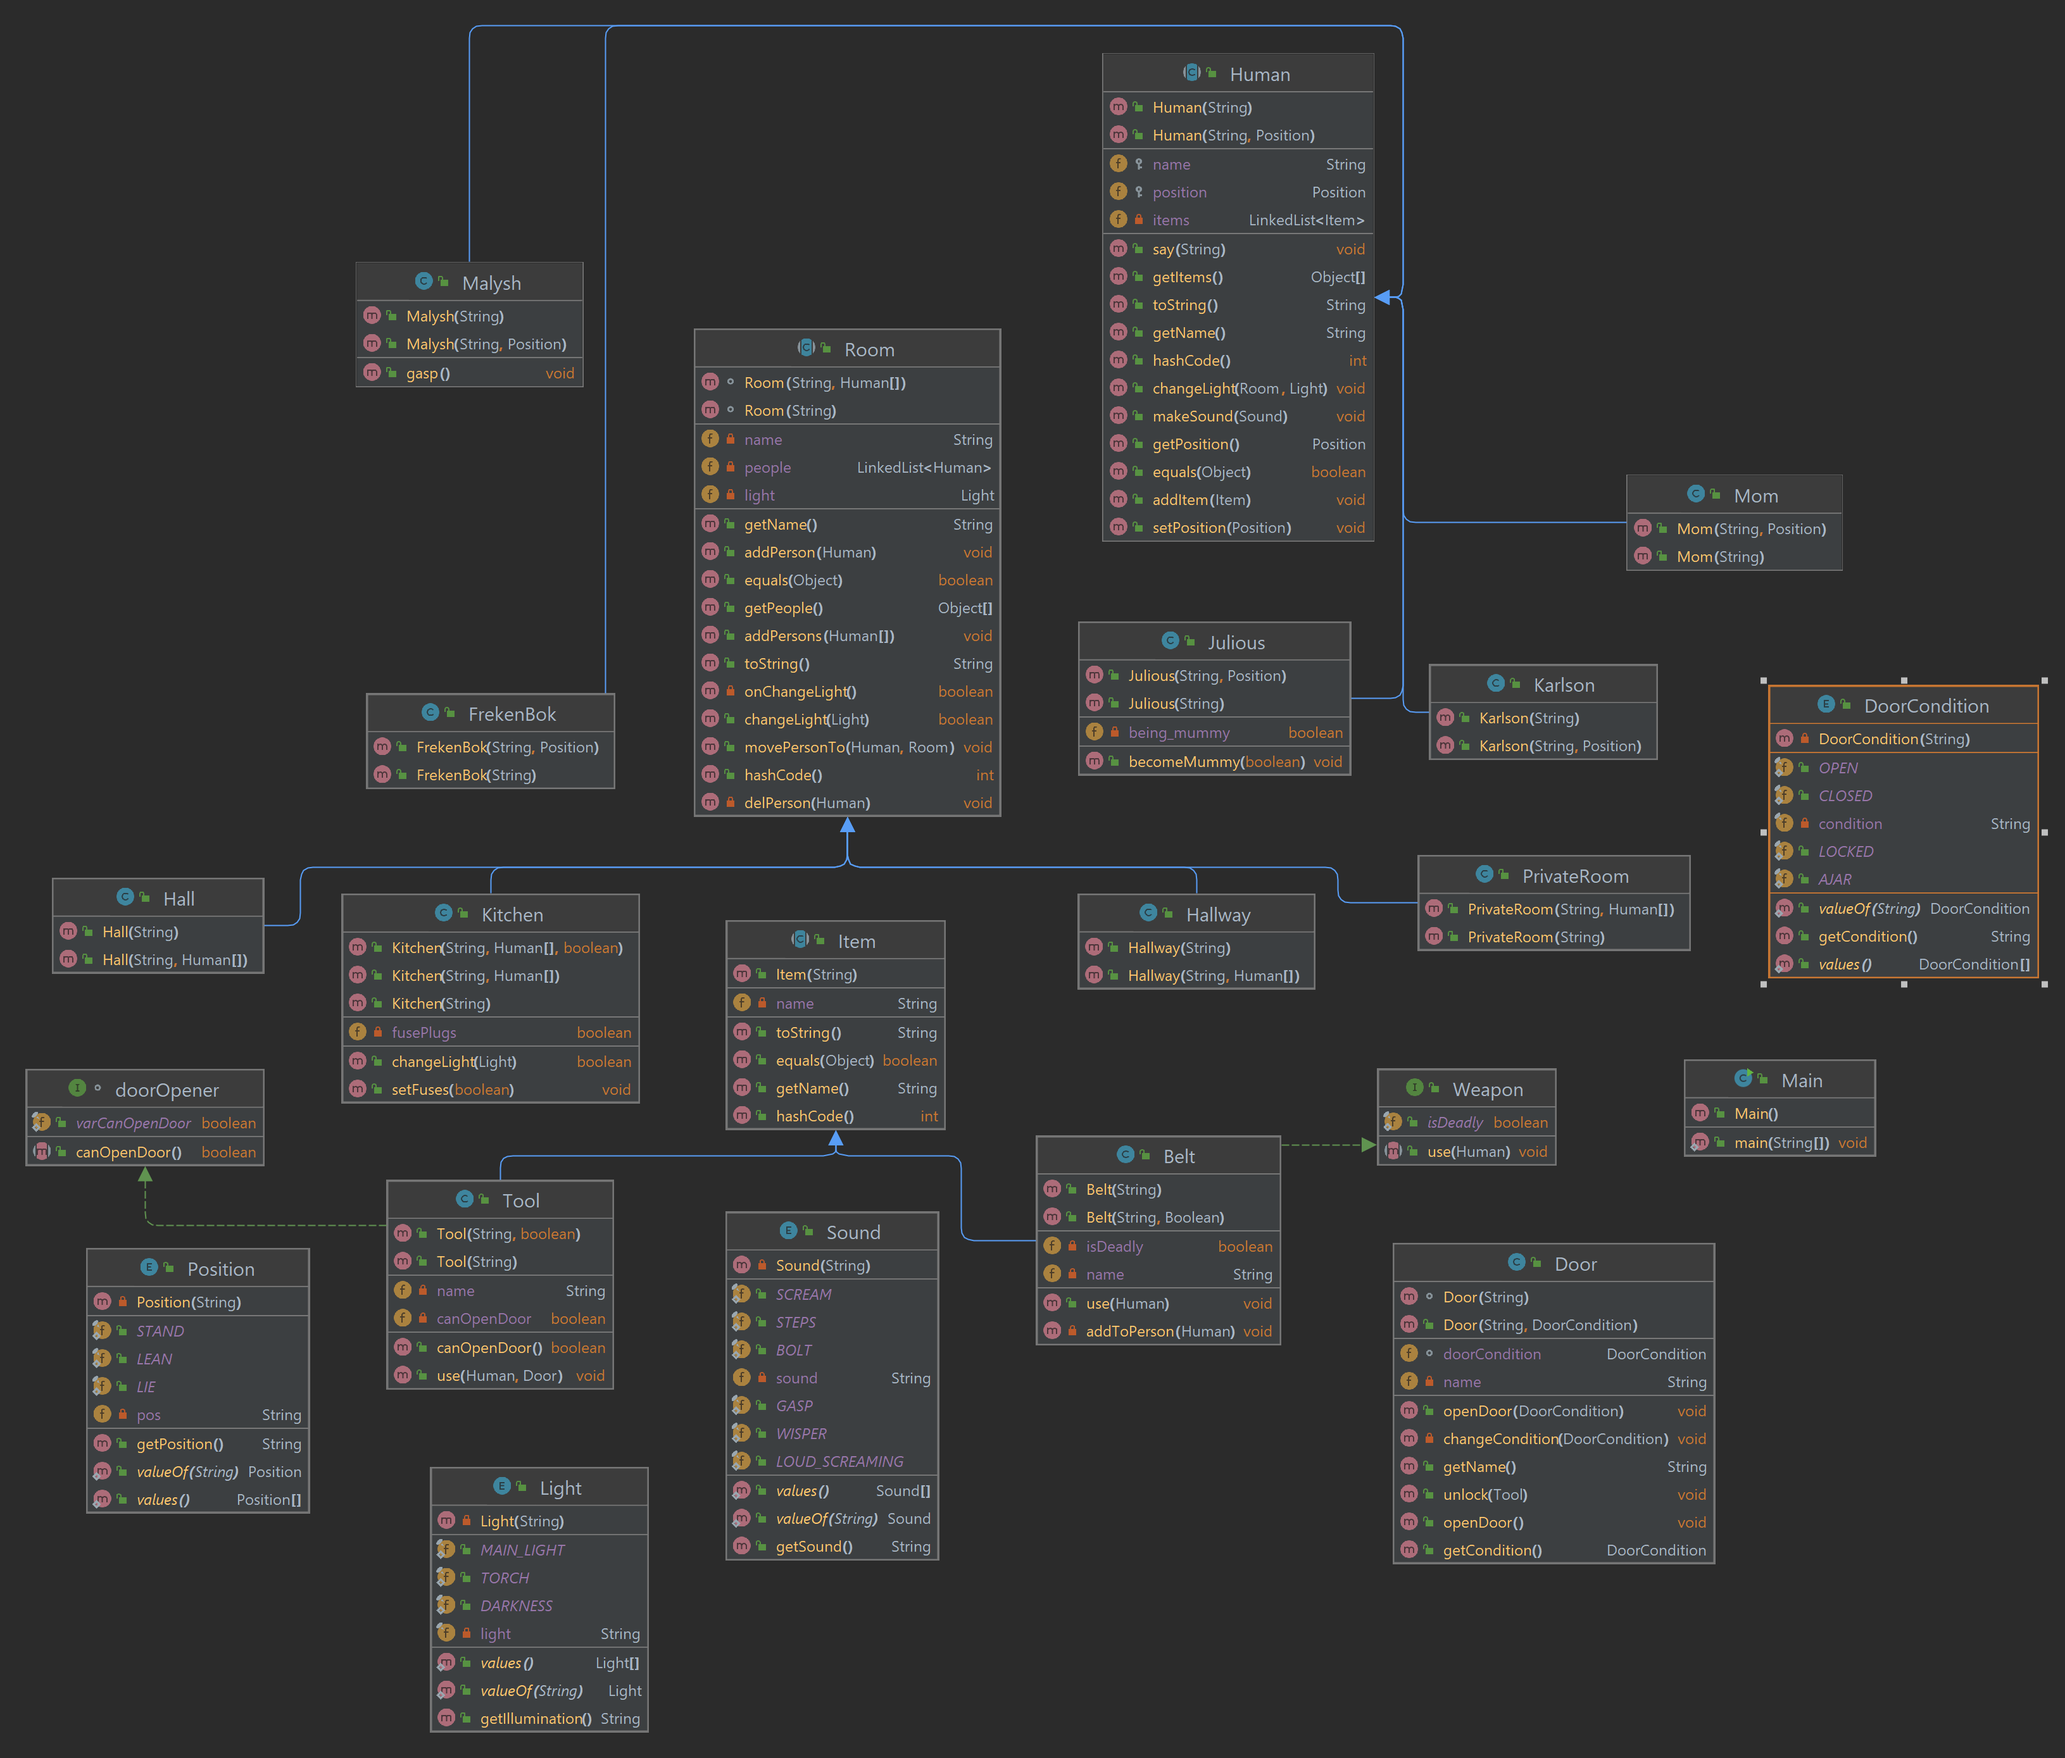
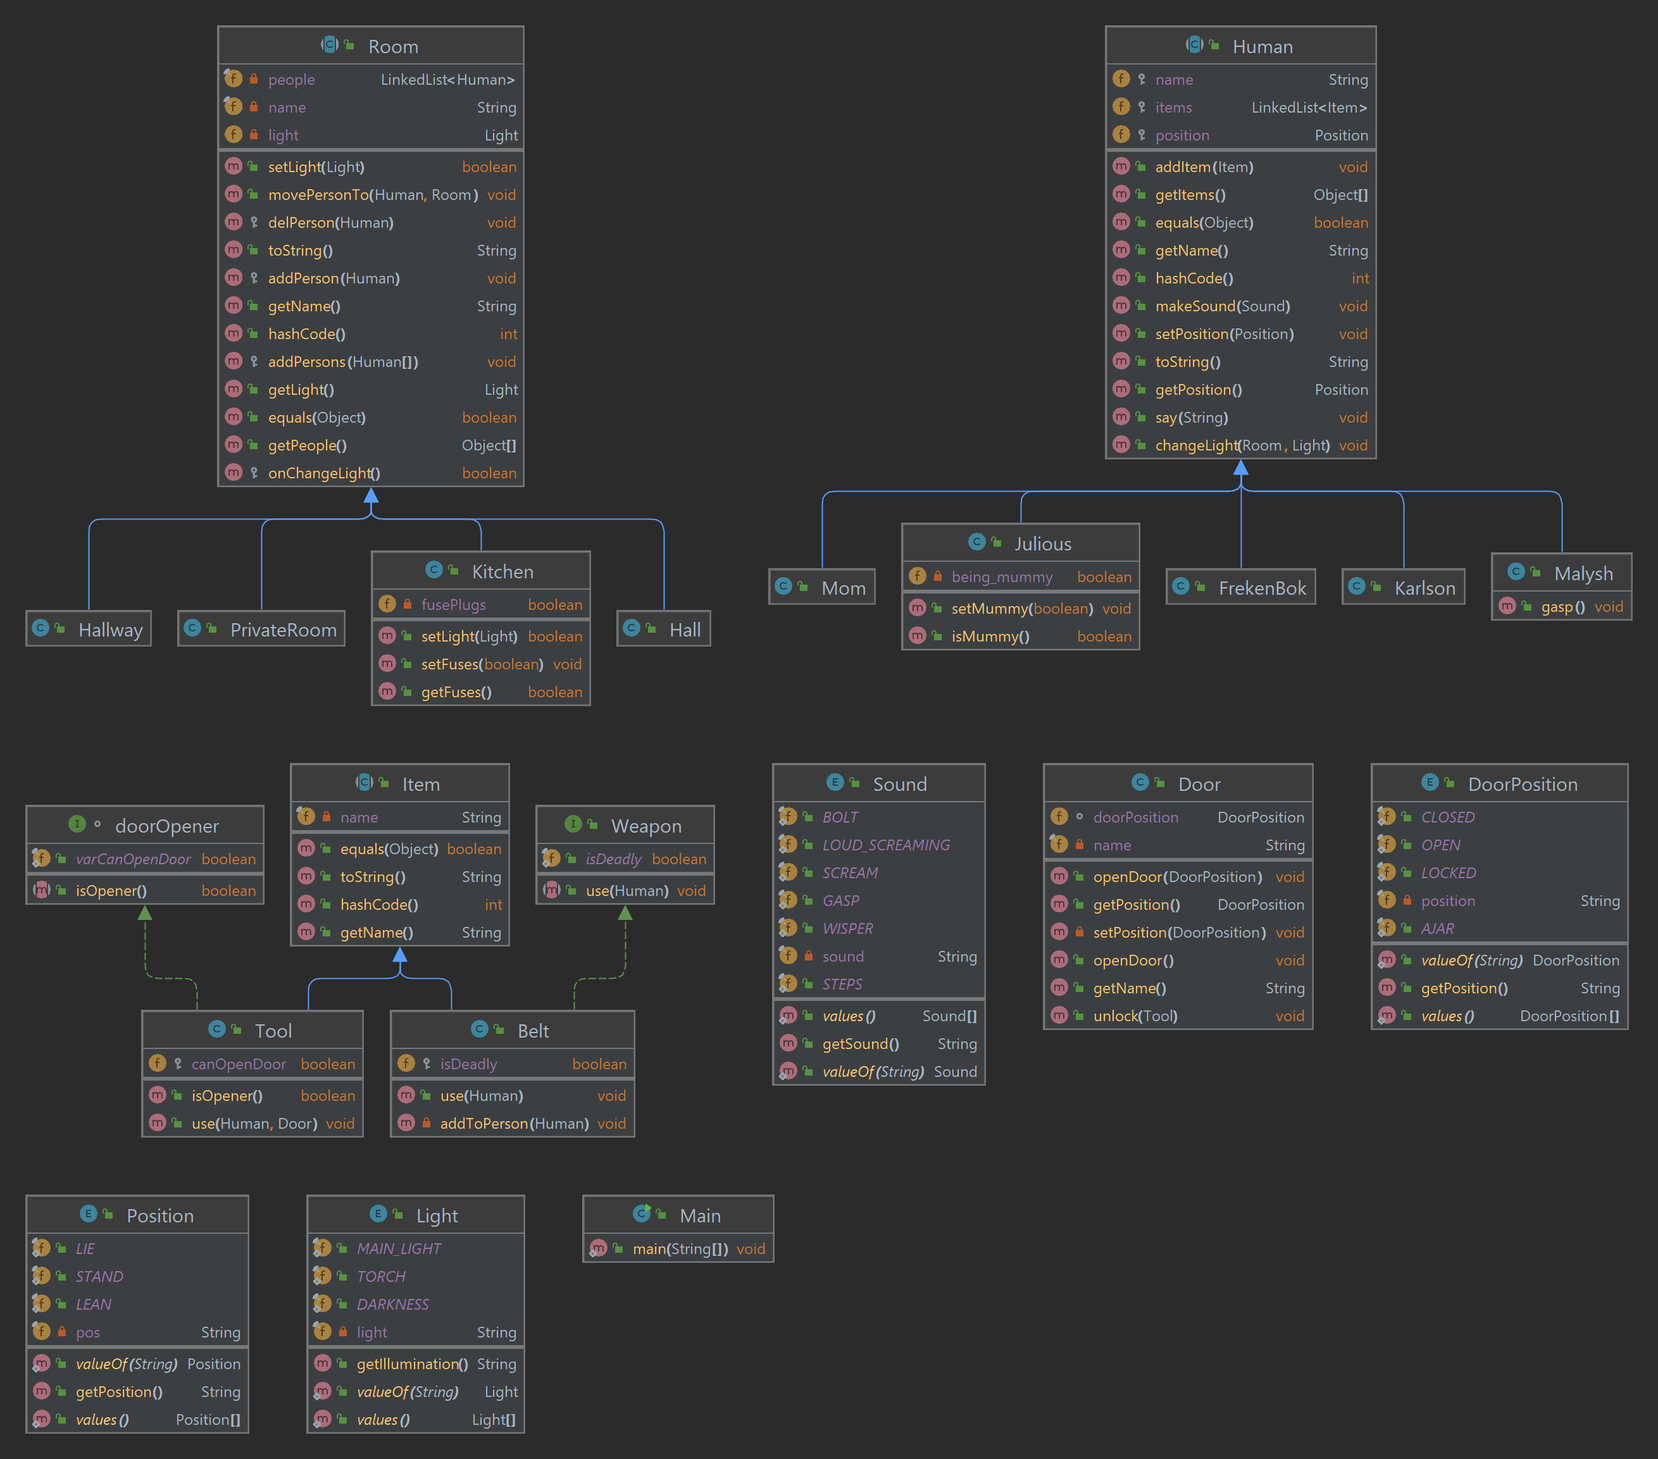
Исправлены equals, добавлен отчет, доработано до SOLID

Changed region(s): [[0.0, 0.0, 0.9893, 0.9991], [0.5256, 0.0, 0.8966, 0.3435], [0.1237, 0.4996, 0.1546, 0.5308]]

diff --git a/src/Main.java b/src/Main.java
@@ -6,41 +6,46 @@ public class Main {
     public static void main(String[] args) {
         Tool wire = new Tool("Проволочка", false);
         Belt belt = new Belt("Ремень");
+        Belt belt2 = new Belt("Ремень");
 
         Malysh malysh = new Malysh("Малыш");
+        Malysh malysh2 = new Malysh("Малыш");
         Karlson karlson = new Karlson("Карлсон");
         Julious julious = new Julious("дядя Юлиус");
-        julious.becomeMummy(true);
+        julious.setMummy(true);
         FrekenBok frekenBok = new FrekenBok("фрекен Бок");
         Mom mom = new Mom("Мамочка");
 
         Hall hall = new Hall("Зал", new Human[]{malysh, karlson, frekenBok, mom});
-        Hallway hallway = new Hallway("Коридор");
+        Hallway hallway = new Hallway("Коридор", new Human[]{julious});
         Kitchen kitchen = new Kitchen("Кухня");
         kitchen.setFuses(false);
         PrivateRoom frekenBokRoom = new PrivateRoom("Комната фрекен бок");
         PrivateRoom juliousRoom = new PrivateRoom("Комната Юлиуса");
 
-        Door doorFrekenBokRoomHallway = new Door("Дверь комнаты Фрекен Бок", DoorCondition.CLOSED);
-        Door doorJuliousRoomHallway = new Door("Дверь комнаты Юлиуса", DoorCondition.CLOSED);
-        Door doorHallHallway = new Door("Дверь в коридор", DoorCondition.LOCKED);
+
+        Door doorFrekenBokRoomHallway = new Door("Дверь комнаты Фрекен Бок", DoorPosition.CLOSED);
+        Door doorJuliousRoomHallway = new Door("Дверь комнаты Юлиуса", DoorPosition.CLOSED);
+        Door doorHallHallway = new Door("Дверь в коридор", DoorPosition.LOCKED);
 
 
         wire.use(karlson, doorHallHallway);
-        doorHallHallway.openDoor(DoorCondition.AJAR);
-        hall.addPerson(julious);
+        doorHallHallway.openDoor(DoorPosition.AJAR);
+        hallway.movePersonTo(julious, hall);
         malysh.gasp();
         julious.makeSound(Sound.WISPER);
         julious.makeSound(Sound.STEPS);
         julious.makeSound(Sound.BOLT);
         mom.makeSound(Sound.SCREAM);
         frekenBok.makeSound(Sound.SCREAM);
-        hall.changeLight(Light.TORCH);
-        hall.changeLight(Light.DARKNESS);
+        julious.setPosition(Position.LEAN);
+        hall.setLight(Light.TORCH);
+        hall.setLight(Light.DARKNESS);
         mom.makeSound(Sound.LOUD_SCREAMING);
-        doorHallHallway.openDoor(DoorCondition.OPEN);
+        doorHallHallway.openDoor(DoorPosition.OPEN);
 
         // Малыш ничего не понимает
+        julious.setMummy(false);
         hall.movePersonTo(julious, juliousRoom);
         hall.movePersonTo(frekenBok, frekenBokRoom);
         System.out.println("Проходит некоторое количество времени");

diff --git a/src/places/Room.java b/src/places/Room.java
@@ -7,8 +7,8 @@ import java.util.LinkedList;
 import java.util.List;
 
 public abstract class Room{
-    private LinkedList<Human> people = new LinkedList<Human>();
-    private String name;
+    private final LinkedList<Human> people = new LinkedList<Human>();
+    private final String name;
     private Light light = Light.DARKNESS;
     Room(String n) {
         name = n;
@@ -20,17 +20,20 @@ public abstract class Room{
     public String getName(){
         return name;
     }
-    public void addPerson(Human human){
+    protected void addPerson(Human human){
         people.add(human);
         System.out.println(human.getName() + " заходит в " + getName());
     }
-    public void addPersons(Human[] crowd){
+    protected void addPersons(Human[] crowd){
         people.addAll(List.of(crowd));
     }
-    public boolean changeLight(Light illumination){
+    public boolean setLight(Light illumination){
         System.out.println("В " + getName() + " включается " + illumination.name());
         this.light = illumination;
         return onChangeLight();
+    }
+    public Light getLight(){
+        return this.light;
     }
     public Object[] getPeople(){
         return people.toArray();
@@ -39,10 +42,10 @@ public abstract class Room{
         this.delPerson(human);
         destination.addPerson(human);
     }
-    private void delPerson(Human human){
+    protected void delPerson(Human human){
         people.remove(human);
     }
-    private boolean onChangeLight(){
+    protected boolean onChangeLight(){
         if (light == Light.TORCH){
             System.out.println("Дядя Юлиус скалит зубы");
             return true;
@@ -58,7 +61,10 @@ public abstract class Room{
             return false;
         }
         Room room = (Room) o;
-        if(!Arrays.equals(room.getPeople(), ((Room) o).getPeople())){
+        if(!Arrays.equals(this.getPeople(), room.getPeople())){
+            return false;
+        }
+        if(!this.getLight().equals(room.getLight())){
             return false;
         }
         return room.getName().equals(this.getName());

diff --git a/src/characters/Human.java b/src/characters/Human.java
@@ -10,20 +10,19 @@ import java.util.LinkedList;
 public abstract class Human {
     protected String name;
     protected Position position = Position.STAND;
-    private LinkedList<Item> items = new LinkedList<Item>();
-
-    public void addItem(Item thing){
-        items.add(thing);
-    }
-    public Object[] getItems(){
-        return items.toArray();
-    }
+    protected LinkedList<Item> items = new LinkedList<Item>();
     public Human(String name){
         this.name = name;
     }
     public Human(String name, Position position){
         this.name = name;
         this.position = position;
+    }
+    public void addItem(Item thing){
+        items.add(thing);
+    }
+    public Object[] getItems(){
+        return items.toArray();
     }
     public void makeSound(Sound sound){
         System.out.println(name + " " + sound.getSound());
@@ -39,10 +38,10 @@ public abstract class Human {
         return this.name;
     }
     public void say(String text){
-        System.out.println(this.getName() + " говорит: " + text + '"');
+        System.out.println(this.getName() + " говорит: \"" + text + '"');
     }
     public void changeLight(Room room, Light light){
-        if(room.changeLight(light)) {
+        if(room.setLight(light)) {
             System.out.println(getName() + " переключает свет в " + room.getName() + " на " + light.name());
         }
         else{
@@ -58,10 +57,10 @@ public abstract class Human {
             return false;
         }
         Human human = (Human) o;
-        if(getPosition().equals(human.getPosition())){
+        if(! this.getPosition().equals(human.getPosition())){
             return false;
         }
-        if(Arrays.equals(getItems(), ((Human) o).getItems())){
+        if(! Arrays.equals(getItems(), ((Human) o).getItems())){
             return false;
         }
         return getName().equals(human.getName());

diff --git a/src/places/Door.java b/src/places/Door.java
@@ -2,46 +2,43 @@ package places;
 
 import tools.Tool;
 
-import java.util.concurrent.locks.Condition;
-
 public class Door {
-    private String name;
-    DoorCondition doorCondition;
+    private final String name;
+    DoorPosition doorPosition = DoorPosition.CLOSED;
 
     Door(String n){
         name = n;
-        doorCondition = DoorCondition.CLOSED;
     }
-    public Door(String n, DoorCondition cond){
+    public Door(String n, DoorPosition cond){
         name = n;
-        doorCondition = cond;
+        doorPosition = cond;
     }
 
     public void unlock(Tool tool){
-        if (tool.canOpenDoor()) {
-            changeCondition(DoorCondition.CLOSED);
+        if (tool.isOpener()) {
+            setPosition(DoorPosition.CLOSED);
         }
     }
     public void openDoor(){
-        if (doorCondition != DoorCondition.LOCKED){
-            changeCondition(DoorCondition.OPEN);
-            System.out.println(getName() + " " + DoorCondition.OPEN.name());
+        if (doorPosition != DoorPosition.LOCKED){
+            setPosition(DoorPosition.OPEN);
+            System.out.println(getName() + " " + DoorPosition.OPEN.name());
         }
     }
     public String getName(){
         return name;
     }
-    public void openDoor(DoorCondition cond){
-        if (doorCondition != DoorCondition.LOCKED){
-            changeCondition(cond);
+    public void openDoor(DoorPosition cond){
+        if (doorPosition != DoorPosition.LOCKED){
+            setPosition(cond);
             System.out.println(this.getName() + cond.name());
         }
     }
-    private void changeCondition(DoorCondition cond){
-        doorCondition = cond;
+    private void setPosition(DoorPosition cond){
+        doorPosition = cond;
 
     }
-    public DoorCondition getCondition(){
-        return doorCondition;
+    public DoorPosition getPosition(){
+        return doorPosition;
     }
 }

diff --git a/src/tools/Tool.java b/src/tools/Tool.java
@@ -4,8 +4,7 @@ import characters.Human;
 import places.Door;
 
 public class Tool extends Item implements doorOpener{
-    private boolean canOpenDoor = false;
-    private String name;
+    protected boolean canOpenDoor = false;
     public Tool(String n){
         super(n);
     }
@@ -15,9 +14,9 @@ public class Tool extends Item implements doorOpener{
     }
     public void use(Human human, Door door){
         door.unlock(this);
-        System.out.println(this.getName() + " используется на " + door.getName());
+        System.out.println(this.getName() + " используется "+ human.getName() + " на " + door.getName());
     }
-    public boolean canOpenDoor(){
+    public boolean isOpener(){
         return canOpenDoor;
     }
 }

diff --git a/src/places/Kitchen.java b/src/places/Kitchen.java
@@ -17,10 +17,13 @@ public class Kitchen extends Room{
     public void setFuses(boolean state){
         fusePlugs = state;
     }
+    public boolean getFuses(){
+        return fusePlugs;
+    }
     @Override
-    public boolean changeLight(Light illumination){
+    public boolean setLight(Light illumination){
         if(fusePlugs){
-            super.changeLight(illumination);
+            super.setLight(illumination);
             return true;
 
         }

diff --git a/src/tools/Item.java b/src/tools/Item.java
@@ -1,7 +1,7 @@
 package tools;
 
 public abstract class Item {
-    private String name;
+    private final String name;
     public Item(String n){
         name = n;
     }
@@ -17,7 +17,7 @@ public abstract class Item {
             return false;
         }
         Item item = (Item) o;
-        return getName().equals(((Item) o).getName());
+        return getName().equals(item.getName());
     }
     @Override
     public String toString(){

diff --git a/src/characters/Julious.java b/src/characters/Julious.java
@@ -8,7 +8,10 @@ public class Julious extends Human{
     public Julious(String name, Position position){
         super(name, position);
     }
-    public void becomeMummy(boolean state){
+    public void setMummy(boolean state){
         being_mummy = state;
+    }
+    public boolean isMummy(){
+        return being_mummy;
     }
 }

diff --git a/src/places/DoorPosition.java b/src/places/DoorPosition.java
@@ -1,0 +1,15 @@
+package places;
+
+public enum DoorPosition {
+    LOCKED("LOCKED"),
+    OPEN("OPEN"),
+    CLOSED("CLOSED"),
+    AJAR("AJAR");
+    private final String position;
+    DoorPosition(String pos){
+        this.position = pos;
+    }
+    public String getPosition(){
+        return this.position;
+    }
+}

diff --git a/src/tools/Belt.java b/src/tools/Belt.java
@@ -4,8 +4,7 @@ import characters.Human;
 import characters.Position;
 
 public class Belt extends Item implements Weapon{
-    private boolean isDeadly = false;
-    private String name;
+    protected boolean isDeadly = false;
     public Belt(String n){
         super(n);
     }

diff --git a/src/characters/Sound.java b/src/characters/Sound.java
@@ -7,7 +7,7 @@ public enum Sound {
     GASP("GASPING"),
     SCREAM("SCREAMING"),
     LOUD_SCREAMING("SQUALLING");
-    private String sound;
+    private final String sound;
     Sound(String s){
         this.sound = s;
     }

diff --git a/src/characters/Position.java b/src/characters/Position.java
@@ -4,7 +4,7 @@ public enum Position{
     STAND("STAMD"),
     LIE("LIE"),
     LEAN("LEAN");
-    private String pos;
+    private final String pos;
     Position(String color){
         this.pos = color;
     }
